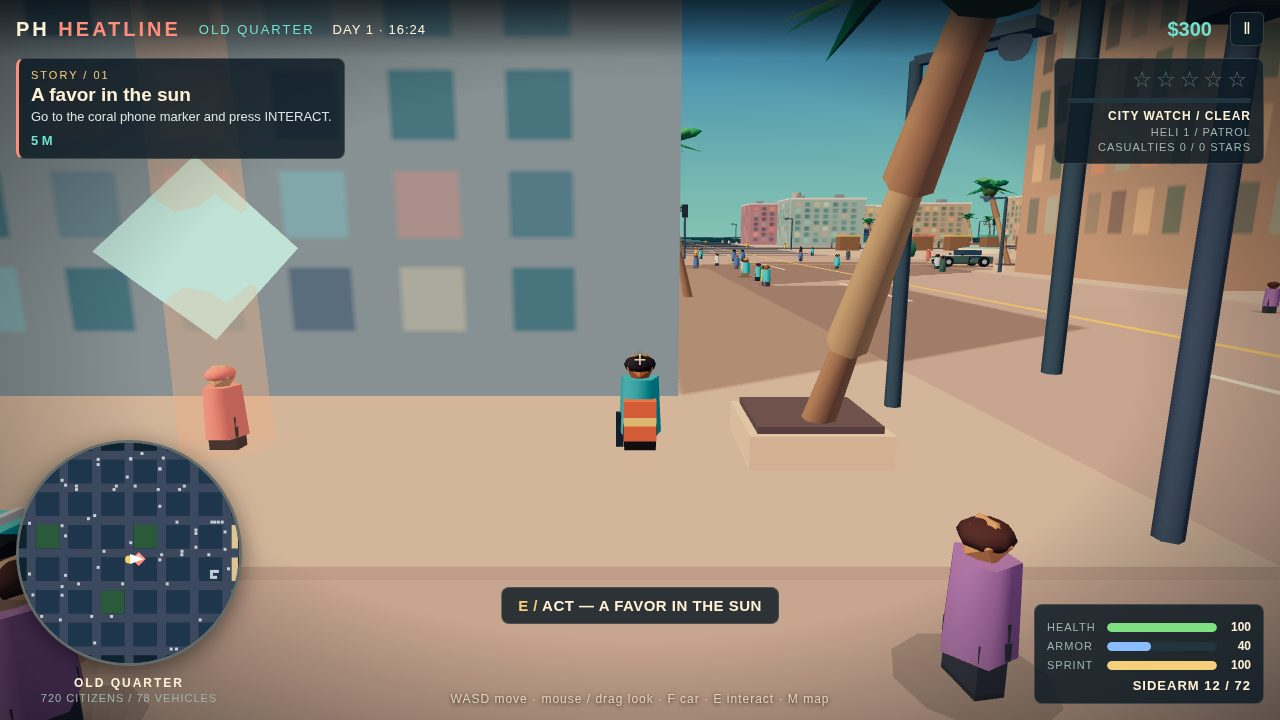
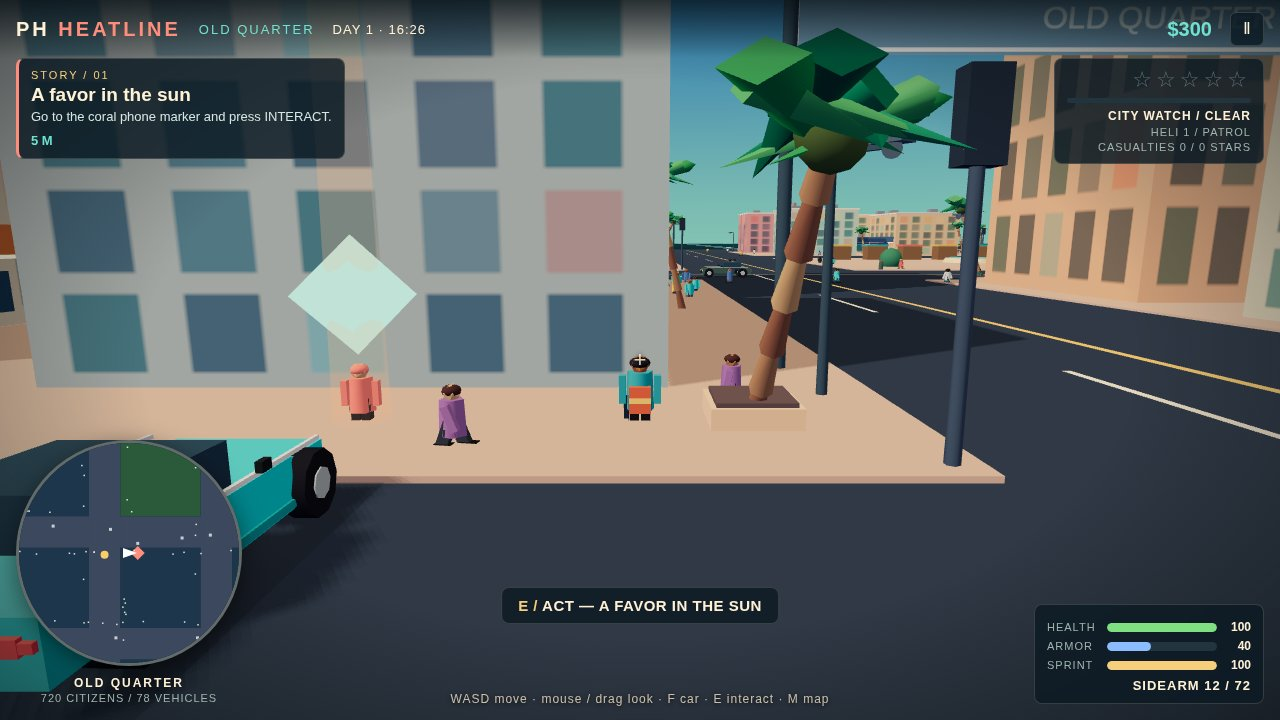
Round 4 pass 2: legIM hide-block fix, mission camera pull-back, night start z=-40 south drive (OLD QUARTER + beams), 4 fresh screenshots

diff --git a/game/main.js b/game/main.js
@@ -49,9 +49,12 @@
       shotSpeedTarget = 10; // 40 KM/H on the HUD
     } else if (mode === 'mission') {
       // Stand west of Mara facing her: the courier sedan at (19, 6.5) stays
-      // out of the sightline, the crystal + contact fill the frame.
+      // out of the sightline, the crystal + contact fill the frame. Camera
+      // pulled back to 12 so the palm at (12,12) reads as a palm with its
+      // crown instead of a close trunk, and the crystal reads smaller.
       game.player.x = 14; game.player.z = 12;
       game.player.yaw = 0;
+      input.zoom = 12;
       game.taxiWait = PH.TAXI_SPOTS[0];
       game.events.push({ kind: 'notify', text: 'MARA / Meet me at the coral phone. Your courier car is parked by the road.', t: game.time });
       game.events.push({ kind: 'notify', text: 'TAXI / a passenger is waiting in OLD QUARTER — pick them up by car.', t: game.time });
@@ -59,8 +62,8 @@
       game.clock = 19 + 31 / 60;
       game.wantedKills = 12; game.casualties = 12;
       game.search = 1; game.heat = 1;
-      moveSedanTo(0, 50);
-      game.player.x = 0; game.player.z = 50;
+      moveSedanTo(0, -40);
+      game.player.x = 0; game.player.z = -40;
       game.toggleCar();
       shotSpeedTarget = 20.5; // 82 KM/H on the HUD
       var car = game.getCar();
@@ -69,10 +72,14 @@
         game.update(1 / 60, { forward: true });
       }
       if (car) { car.speed = shotSpeedTarget; car.yaw = Math.PI / 2; }
-      // The warm-up drive heads +z out of OLD QUARTER; put the car back on
-      // the x=0 road at z=50 so the shot stays in OLD QUARTER.
-      if (car) { car.x = 0; car.z = 50; car.yaw = Math.PI / 2; }
-      game.player.x = 0; game.player.z = 50; game.player.yaw = Math.PI / 2;
+      // The warm-up drive heads +z; put the car back on the x=0 road at
+      // z=-40 and head it +z (south) so the shot stays in OLD QUARTER for
+      // the whole wait: from -40 the PORT SOL border (z > 124) is 164 units
+      // away, ~8 sim-seconds, and the south drive keeps the heli beams
+      // crossing the frame toward the camera (a north drive hides them
+      // behind it). District at z=-40 is OLD QUARTER.
+      if (car) { car.x = 0; car.z = -40; car.yaw = Math.PI / 2; }
+      game.player.x = 0; game.player.z = -40; game.player.yaw = Math.PI / 2;
       // Pull the camera back for the night shot: from the close chase cam
       // the spotlight cone fills the frame as a wash; from 18 units back it
       // reads as a beam from the heli to the pool on the street.

diff --git a/game/world.js b/game/world.js
@@ -1647,7 +1647,12 @@
       for (var hi2 = idx; hi2 < MAXP; hi2++) {
         bodyIM.setMatrixAt(hi2, hideMatrix);
         headIM.setMatrixAt(hi2, hideMatrix);
-        legIM.setMatrixAt(hi2, hideMatrix);
+        legLIM.setMatrixAt(hi2, hideMatrix);
+        legRIM.setMatrixAt(hi2, hideMatrix);
+        armLIM.setMatrixAt(hi2, hideMatrix);
+        armRIM.setMatrixAt(hi2, hideMatrix);
+        shoeLIM.setMatrixAt(hi2, hideMatrix);
+        shoeRIM.setMatrixAt(hi2, hideMatrix);
         pelvisIM.setMatrixAt(hi2, hideMatrix);
         hairIM.setMatrixAt(hi2, hideMatrix);
         blobIM.setMatrixAt(hi2, hideMatrix);
@@ -1655,14 +1660,24 @@
       for (var ai2 = accSlot; ai2 < MAXP * 2; ai2++) accIM.setMatrixAt(ai2, hideMatrix);
       bodyIM.instanceMatrix.needsUpdate = true;
       headIM.instanceMatrix.needsUpdate = true;
-      legIM.instanceMatrix.needsUpdate = true;
+      legLIM.instanceMatrix.needsUpdate = true;
+      legRIM.instanceMatrix.needsUpdate = true;
+      armLIM.instanceMatrix.needsUpdate = true;
+      armRIM.instanceMatrix.needsUpdate = true;
+      shoeLIM.instanceMatrix.needsUpdate = true;
+      shoeRIM.instanceMatrix.needsUpdate = true;
       pelvisIM.instanceMatrix.needsUpdate = true;
       hairIM.instanceMatrix.needsUpdate = true;
       accIM.instanceMatrix.needsUpdate = true;
       blobIM.instanceMatrix.needsUpdate = true;
       if (bodyIM.instanceColor) bodyIM.instanceColor.needsUpdate = true;
       if (headIM.instanceColor) headIM.instanceColor.needsUpdate = true;
-      if (legIM.instanceColor) legIM.instanceColor.needsUpdate = true;
+      if (legLIM.instanceColor) legLIM.instanceColor.needsUpdate = true;
+      if (legRIM.instanceColor) legRIM.instanceColor.needsUpdate = true;
+      if (armLIM.instanceColor) armLIM.instanceColor.needsUpdate = true;
+      if (armRIM.instanceColor) armRIM.instanceColor.needsUpdate = true;
+      if (shoeLIM.instanceColor) shoeLIM.instanceColor.needsUpdate = true;
+      if (shoeRIM.instanceColor) shoeRIM.instanceColor.needsUpdate = true;
       if (pelvisIM.instanceColor) pelvisIM.instanceColor.needsUpdate = true;
       if (hairIM.instanceColor) hairIM.instanceColor.needsUpdate = true;
       if (accIM.instanceColor) accIM.instanceColor.needsUpdate = true;
